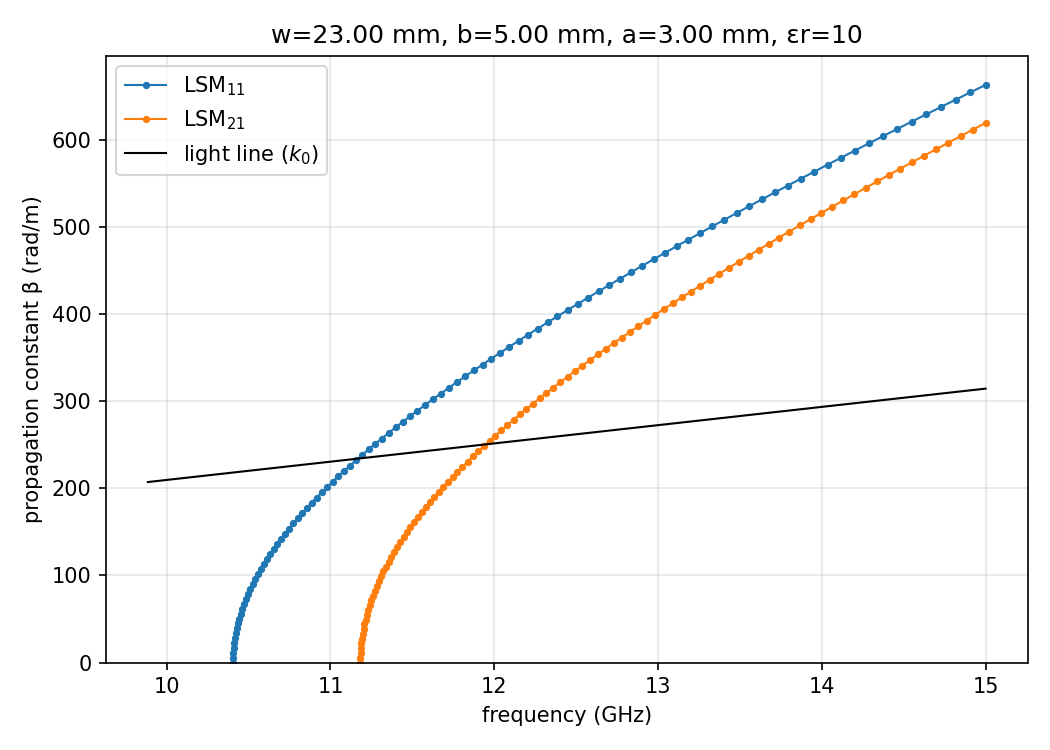
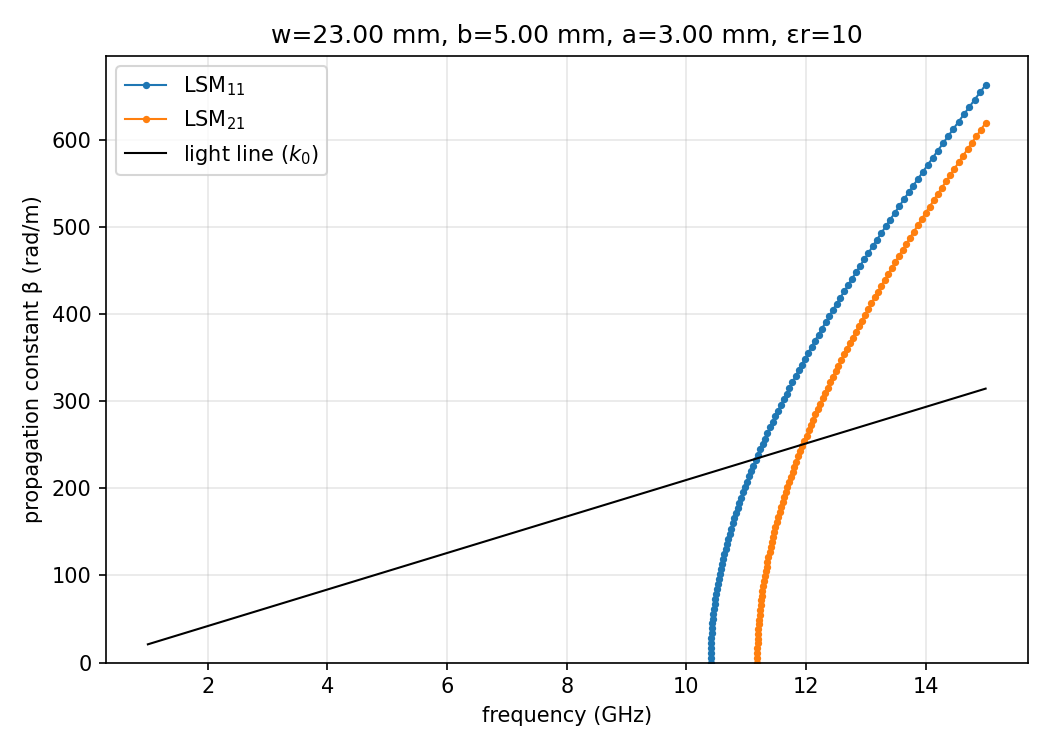
added multipole analysis - need to change plot to V_z and normalise by V_0 axial monopole term

diff --git a/phd_workspace/lsm_mode_functions.py b/phd_workspace/lsm_mode_functions.py
@@ -14,6 +14,7 @@ from dataclasses import dataclass, replace
 import numpy as np
 from scipy.constants import c, epsilon_0, mu_0
 from scipy.optimize import brentq
+import scipy.integrate as integrate
 
 
 # =============================================================================
@@ -138,7 +139,9 @@ def beta_curve(guide, func, m, n, f_c, f_max, n_f):
 
 
 def beta_exact(guide, f, m, n, func=lsm):
-    """beta of mode (m, n) at frequency f from the roots of the dispersion relation."""
+    """
+    beta of mode (m, n) at frequency f from the roots of the dispersion relation.
+    """
     k = 2 * np.pi * f / c
     roots = roots_in_s(guide, func, k)
     if len(roots) < n:
@@ -398,9 +401,142 @@ def compute_field_statistics(guide, m, beta_mn, fields, forces, x_grid, y_grid, 
         "dielectric_share_percent": share,
     }
 
+# Fourier series expansion-------------------------
+
+def calc_field_amplitude(A_mn, beta_mn, z_length, ky0):
+    """
+    Calculates field amplitude, alpha in Apsimon 2021, for given user inputs
+    """
+    field_amplitude = -1j *  A_mn * beta_mn * z_length * ky0
+    return field_amplitude
+
+def fourier_a_0_integrand(theta, w, r, ky0):
+    """
+    Calculates the integrand for the a_0 Fourier coefficient
+    """
+    first_cosine_arg = ((np.pi / w) * r) * np.cos(theta)
+    second_cosine_arg = ky0 * r * np.sin(theta)
+
+    first_cosine = np.cos(first_cosine_arg)
+    second_cosine = np.cos(second_cosine_arg)
+
+    integrand = first_cosine * second_cosine
+    return np.real(integrand)
+
+def fourier_a_n_integrand(theta, w, r, ky0, n):
+    """
+    Calculates the integrand for a_n Fourier coefficient
+    """
+    first_cosine_arg = ((np.pi / w) * r) * np.cos(theta)
+    second_cosine_arg = ky0 * r * np.sin(theta)
+    third_cosine_arg = n * theta
+    
+    first_cosine = np.cos(first_cosine_arg)
+    second_cosine = np.cos(second_cosine_arg)
+    third_cosine = np.cos(third_cosine_arg)
+    
+    integrand = first_cosine * second_cosine * third_cosine
+    return np.real(integrand)
+
+def fourier_b_n_integrand(theta, w, r, ky0, n):
+    """
+    Calculates the integrand for b_n Fourier coefficient
+    """
+    first_cosine_arg = ((np.pi / w) * r) * np.cos(theta)
+    second_cosine_arg = ky0 * r * np.sin(theta)
+    third_arg = n * theta
+        
+    first_cosine = np.cos(first_cosine_arg)
+    second_cosine = np.cos(second_cosine_arg)
+    third_sin = np.sin(third_arg)
+        
+    integrand = first_cosine * second_cosine * third_sin
+    return np.real(integrand)
+
+def fourier_a_0(field_amplitude, w, r, ky0):
+    """
+    Calculates the value of the Fourier coefficient a_0 for the longitudinal field
+
+    ----PUT FIELD_AMPLITUDE IN THE MAIN FUNCTION!!-----
+    """
+    integral, _ =  integrate.quad(fourier_a_0_integrand, -np.pi, np.pi, args=(w, r, ky0))
+    return integral * (field_amplitude / np.pi) 
+
+
+def fourier_a_n(field_amplitude, w, r, ky0, n):
+    """
+    Calculates the value of the Fourier coefficient a_n for the longitudinal field
+    """
+    integral, _  = integrate.quad(fourier_a_n_integrand, -np.pi, np.pi, args=(w, r, ky0, n))
+    return integral * (field_amplitude / np.pi) 
+
+def fourier_b_n(field_amplitude, w, r, ky0, n):
+    """
+    Calculates the value of the Fourier coefficient b_n for the longitudinal field
+    """
+    integral, _ = integrate.quad(fourier_b_n_integrand, -np.pi, np.pi, args=(w, r, ky0, n))
+    return integral * (field_amplitude/np.pi)
+
+def longitudinal_field_expansion_polar(A_mn, beta_mn, z_length, ky0, n, w, r, theta):
+    """
+    Calculates the multipole potential of the longitudinal field in polar coordinates r, theta, for a single value of
+    n that is inputted by the user.
+
+    n is the selected mode
+    """
+    field_amplitude = calc_field_amplitude(A_mn, beta_mn, z_length, ky0)
+
+    a_n = fourier_a_n(field_amplitude, w, r, ky0, n)
+    b_n = fourier_b_n(field_amplitude, w, r, ky0, n)
+
+    v_z = (a_n * np.cos(n*theta)) + (b_n * np.sin(n*theta))
+
+    return v_z
+
+
+def calc_fourier_poles(A_mn, beta_mn, z_length, ky0, n, w, a, theta):
+    """
+    Multipole expansion up to order n at a fixed angle theta, swept over r.
+
+    Returns
+    -------
+    v_n_array : (n, 100) complex array, one row per mode n = 1..n
+    a_0_row   : (100,) complex array, the a_0 coefficient at each r
+    v_z_total : (100,) complex array, a_0/2 + sum over modes
+    r_linspace: (100,) radii, so you can plot against r / w
+    """
+    r_max = np.sqrt((w / 2) ** 2 + a ** 2)
+    r_min = -r_max  # symmetry of DLW
+    r_linspace = np.linspace(r_max, r_min, 100)
+
+    field_amplitude = calc_field_amplitude(A_mn, beta_mn, z_length, ky0)
+
+    # a_0 does not depend on n, so compute it once per radius
+    a_0_row = np.array([fourier_a_0(field_amplitude, w, radius, ky0)
+                        for radius in r_linspace])
+
+    # works for n == 1 as well, so no if/else needed
+    n_values = np.arange(1, n + 1)
+
+    rows = []
+    for n_i in n_values:
+        row = [longitudinal_field_expansion_polar(A_mn, beta_mn, z_length, ky0,
+                                                  n_i, w, radius, theta)
+               for radius in r_linspace]
+        rows.append(row)
+
+    v_n_array = np.array(rows)                        # shape (n, 100)
+    v_z_total = a_0_row / 2 + v_n_array.sum(axis=0)   # shape (100,)
+
+    return v_n_array, a_0_row, v_z_total, r_linspace
+
+#-------------------------------------
+
 
 def format_field_statistics(stats):
-    """Plain-text lines for the dict returned by compute_field_statistics."""
+    """
+    Plain-text lines for the dict returned by compute_field_statistics.
+    """
     lines = [
         f"Fraction of E_y left after the magnetic force: kx^2/(kx^2+beta^2) = {stats['Ey_fraction_left']:.2f}",
         f"vacuum: max|div_perp F_perp| / max|dF_x/dx| = {stats['vacuum_div_ratio']:.1e}   "
@@ -410,6 +546,7 @@ def format_field_statistics(stats):
     for label, pct in stats["dielectric_share_percent"].items():
         lines.append(f"   {label:16s} {pct:5.1f} %")
     return lines
+
 
 
 # =============================================================================
@@ -638,12 +775,16 @@ def run_verification(guide, m, n, frequency, beta_interp, use_light_line_frequen
     return all(checks.values()), lines
 
 
+
+
+
 # =============================================================================
-# Top-level driver: everything needed for the plots and report, no plotting
+# run whole analysis
 # =============================================================================
 def run_lsm_analysis(guide, dispersion_modes, f_max, n_f, mode, use_light_line_frequency,
                      user_frequency, A_mn, n_x, n_y, f_min_factor=0.95, f_min=None,
-                     z_point=None, n_z=400, z_periods=2):
+                     z_point=None, n_z=400, z_periods=2,
+                     fourier_modes_n=4, theta_fourier=0.284, z_length=1.0):
     """
     Run the whole LSM calculation and return a results dict for lsm_mode_plotter.
 
@@ -652,6 +793,9 @@ def run_lsm_analysis(guide, dispersion_modes, f_max, n_f, mode, use_light_line_f
     mode             : (m, n) of the LSM mode used for the field plots
     z_point          : (x0, y0) for the E_z(z) trace; default (0, a/2)
     z_periods        : number of guide wavelengths shown in the E_z(z) trace
+    fourier_modes_n  : highest multipole order n in the Fourier expansion (n = 1..fourier_modes_n)
+    theta_fourier    : fixed polar angle [rad] at which the expansion is swept over r
+    z_length         : structure length used in the field amplitude alpha
     """
     m, n = mode
     disp = compute_dispersion(guide, dispersion_modes, f_max, n_f, f_min_factor, f_min)
@@ -666,6 +810,10 @@ def run_lsm_analysis(guide, dispersion_modes, f_max, n_f, mode, use_light_line_f
     forces = compute_force_analysis(guide, fields, x_grid, y_grid, k)
     stats = compute_field_statistics(guide, m, beta_mn, fields, forces, x_grid, y_grid, Y)
 
+    ky0, _, _ = calculate_k_mn(guide, m, beta_mn, frequency)
+    v_n, a_0, v_total, r = calc_fourier_poles(
+        A_mn, beta_mn, z_length, ky0, fourier_modes_n, guide.w, guide.a, theta_fourier)
+
     x0, y0 = z_point if z_point is not None else (0.0, guide.a / 2)
     z, E_z_z = compute_Ez_vs_z(guide, m, beta_mn, frequency, x0, y0, n_z, 2 * np.pi * z_periods, A_mn)
 
@@ -678,6 +826,9 @@ def run_lsm_analysis(guide, dispersion_modes, f_max, n_f, mode, use_light_line_f
         "x_grid": x_grid, "y_grid": y_grid, "X": X, "Y": Y,
         "fields": fields, "forces": forces, "stats": stats,
         "z": z, "E_z_z": E_z_z, "z_point": (x0, y0),
+        "multipole_components_2d_array": v_n, "total_multipole_components": v_total,
+        "polar_r_multipole": r, "multipole_a0_half": a_0 / 2,
+        "theta_fourier": theta_fourier,
     }
 
 

diff --git a/phd_workspace/lsm_mode_input.py b/phd_workspace/lsm_mode_input.py
@@ -15,10 +15,10 @@ from lsm_mode_plotter import plotter_wrapper
 # =============================================================================
 # 1. Waveguide geometry   (-w/2 < x < w/2, 0 < y < b; dielectric fills a < y < b)
 # =============================================================================
-w = 1.2e-3        # guide width in x                                   [m]
-b = 300e-6       # guide height in y (metal wall at y = b)            [m]
-a = 250e-6       # height of the air region (dielectric from y = a)   [m]
-eps_r = 5       # relative permittivity of the slab                  [-]
+w = 23e-3        # guide width in x                                   [m]
+b = 5e-3       # guide height in y (metal wall at y = b)            [m]
+a = 3e-3       # height of the air region (dielectric from y = a)   [m]
+eps_r = 10       # relative permittivity of the slab                  [-]
 
 # =============================================================================
 # 2. Dispersion curves
@@ -59,6 +59,11 @@ z_point = None                     # (x0, y0) [m] where E_z is sampled; None -> 
 n_z = 400                          # points along z
 z_periods = 2                      # number of guide wavelengths shown
 
+# Fourier multipole expansion of the longitudinal field
+fourier_modes_n = 4                # highest multipole order n (components n = 1..fourier_modes_n)
+theta_fourier = 0.284              # fixed polar angle [rad] at which the expansion is swept over r
+z_length = 1.0                     # structure length in the field amplitude alpha  [m]
+
 # =============================================================================
 # 5. Output
 # =============================================================================
@@ -68,9 +73,9 @@ report_name = "verification.txt"   # verification report (written to OUTPUT_DIR)
 
 # Which plots to make. Available:
 #   "dispersion", "field_components", "field_snapshots",
-#   "accel_vs_transverse", "Ez_3d", "Ez_vs_z"
+#   "accel_vs_transverse", "Ez_3d", "Ez_vs_z", "fourier_multipoles"
 PLOTS_TO_MAKE = ["dispersion", "field_components", "field_snapshots",
-                 "accel_vs_transverse", "Ez_3d", "Ez_vs_z"]
+                 "accel_vs_transverse", "Ez_3d", "Ez_vs_z", "fourier_multipoles"]
 
 # =============================================================================
 # 6. Verification
@@ -93,7 +98,8 @@ def main():
     results = run_lsm_analysis(
         guide, DISPERSION_MODES, f_max, n_f, (m, n), use_light_line_frequency, user_frequency,
         A_mn, n_x, n_y, f_min_factor=f_min_factor, f_min=f_min,
-        z_point=z_point, n_z=n_z, z_periods=z_periods)
+        z_point=z_point, n_z=n_z, z_periods=z_periods,
+        fourier_modes_n=fourier_modes_n, theta_fourier=theta_fourier, z_length=z_length)
 
     saved = plotter_wrapper(
         results, OUTPUT_DIR, dpi=dpi, plots=PLOTS_TO_MAKE,

diff --git a/phd_workspace/lsm_mode_plotter.py b/phd_workspace/lsm_mode_plotter.py
@@ -208,6 +208,48 @@ def plot_Ez_vs_z(results, path, dpi=150):
     return _save(fig, path, dpi)
 
 
+def plot_fourier_multipoles(results, path, dpi=150):
+    """
+    Fourier (multipole) expansion of the longitudinal field at fixed polar angle theta, swept
+    over r: left, each component (a_0/2 and the n-th harmonics) on its own curve; right, the
+    total a_0/2 + sum_n. The amplitude prefactor is -j, so the field is (almost) purely
+    imaginary and the larger of the real / imaginary parts is shown.
+    """
+    r = results["polar_r_multipole"]
+    v_n = results["multipole_components_2d_array"]
+    a0_half = results["multipole_a0_half"]
+    total = results["total_multipole_components"]
+    w = results["guide"].w
+
+    if np.max(np.abs(np.imag(total))) > np.max(np.abs(np.real(total))):
+        part, label = np.imag, "Im"
+    else:
+        part, label = np.real, "Re"
+    x = r / w
+
+    fig, axes = plt.subplots(1, 2, figsize=(13, 4.8), sharex=True)
+    ax = axes[0]
+    ax.plot(x, part(a0_half), "k--", label="$a_0/2$")
+    for i, row in enumerate(v_n, start=1):
+        ax.plot(x, part(row), label=f"$n={i}$")
+    ax.set_title("individual components")
+    ax.legend(fontsize=8, ncol=2)
+
+    axes[1].plot(x, part(total), "k", lw=2)
+    axes[1].set_title("total: $a_0/2 + \\sum_n$")
+
+    for ax in axes:
+        ax.axhline(0, color="gray", lw=0.5)
+        ax.set_xlabel("r / w")
+        ax.set_ylabel(f"{label}(longitudinal field expansion) (a.u.)")
+        ax.grid(alpha=0.3)
+
+    fig.suptitle(f"LSM$_{{{results['m']}{results['n']}}}$ Fourier multipole expansion, "
+                 f"$\\theta$ = {results['theta_fourier']:.3f} rad, n = 1..{len(v_n)}")
+    fig.tight_layout()
+    return _save(fig, path, dpi)
+
+
 # name used in lsm_mode_input.py -> (plot function, output file name)
 PLOTS = {
     "dispersion": (plot_dispersion, "dispersion.png"),
@@ -216,6 +258,7 @@ PLOTS = {
     "accel_vs_transverse": (plot_accel_vs_transverse, "accel_vs_transverse.png"),
     "Ez_3d": (plot_Ez_3d, "Ez_3d.png"),
     "Ez_vs_z": (plot_Ez_vs_z, "Ez_vs_z.png"),
+    "fourier_multipoles": (plot_fourier_multipoles, "fourier_multipoles.png"),
 }
 
 
